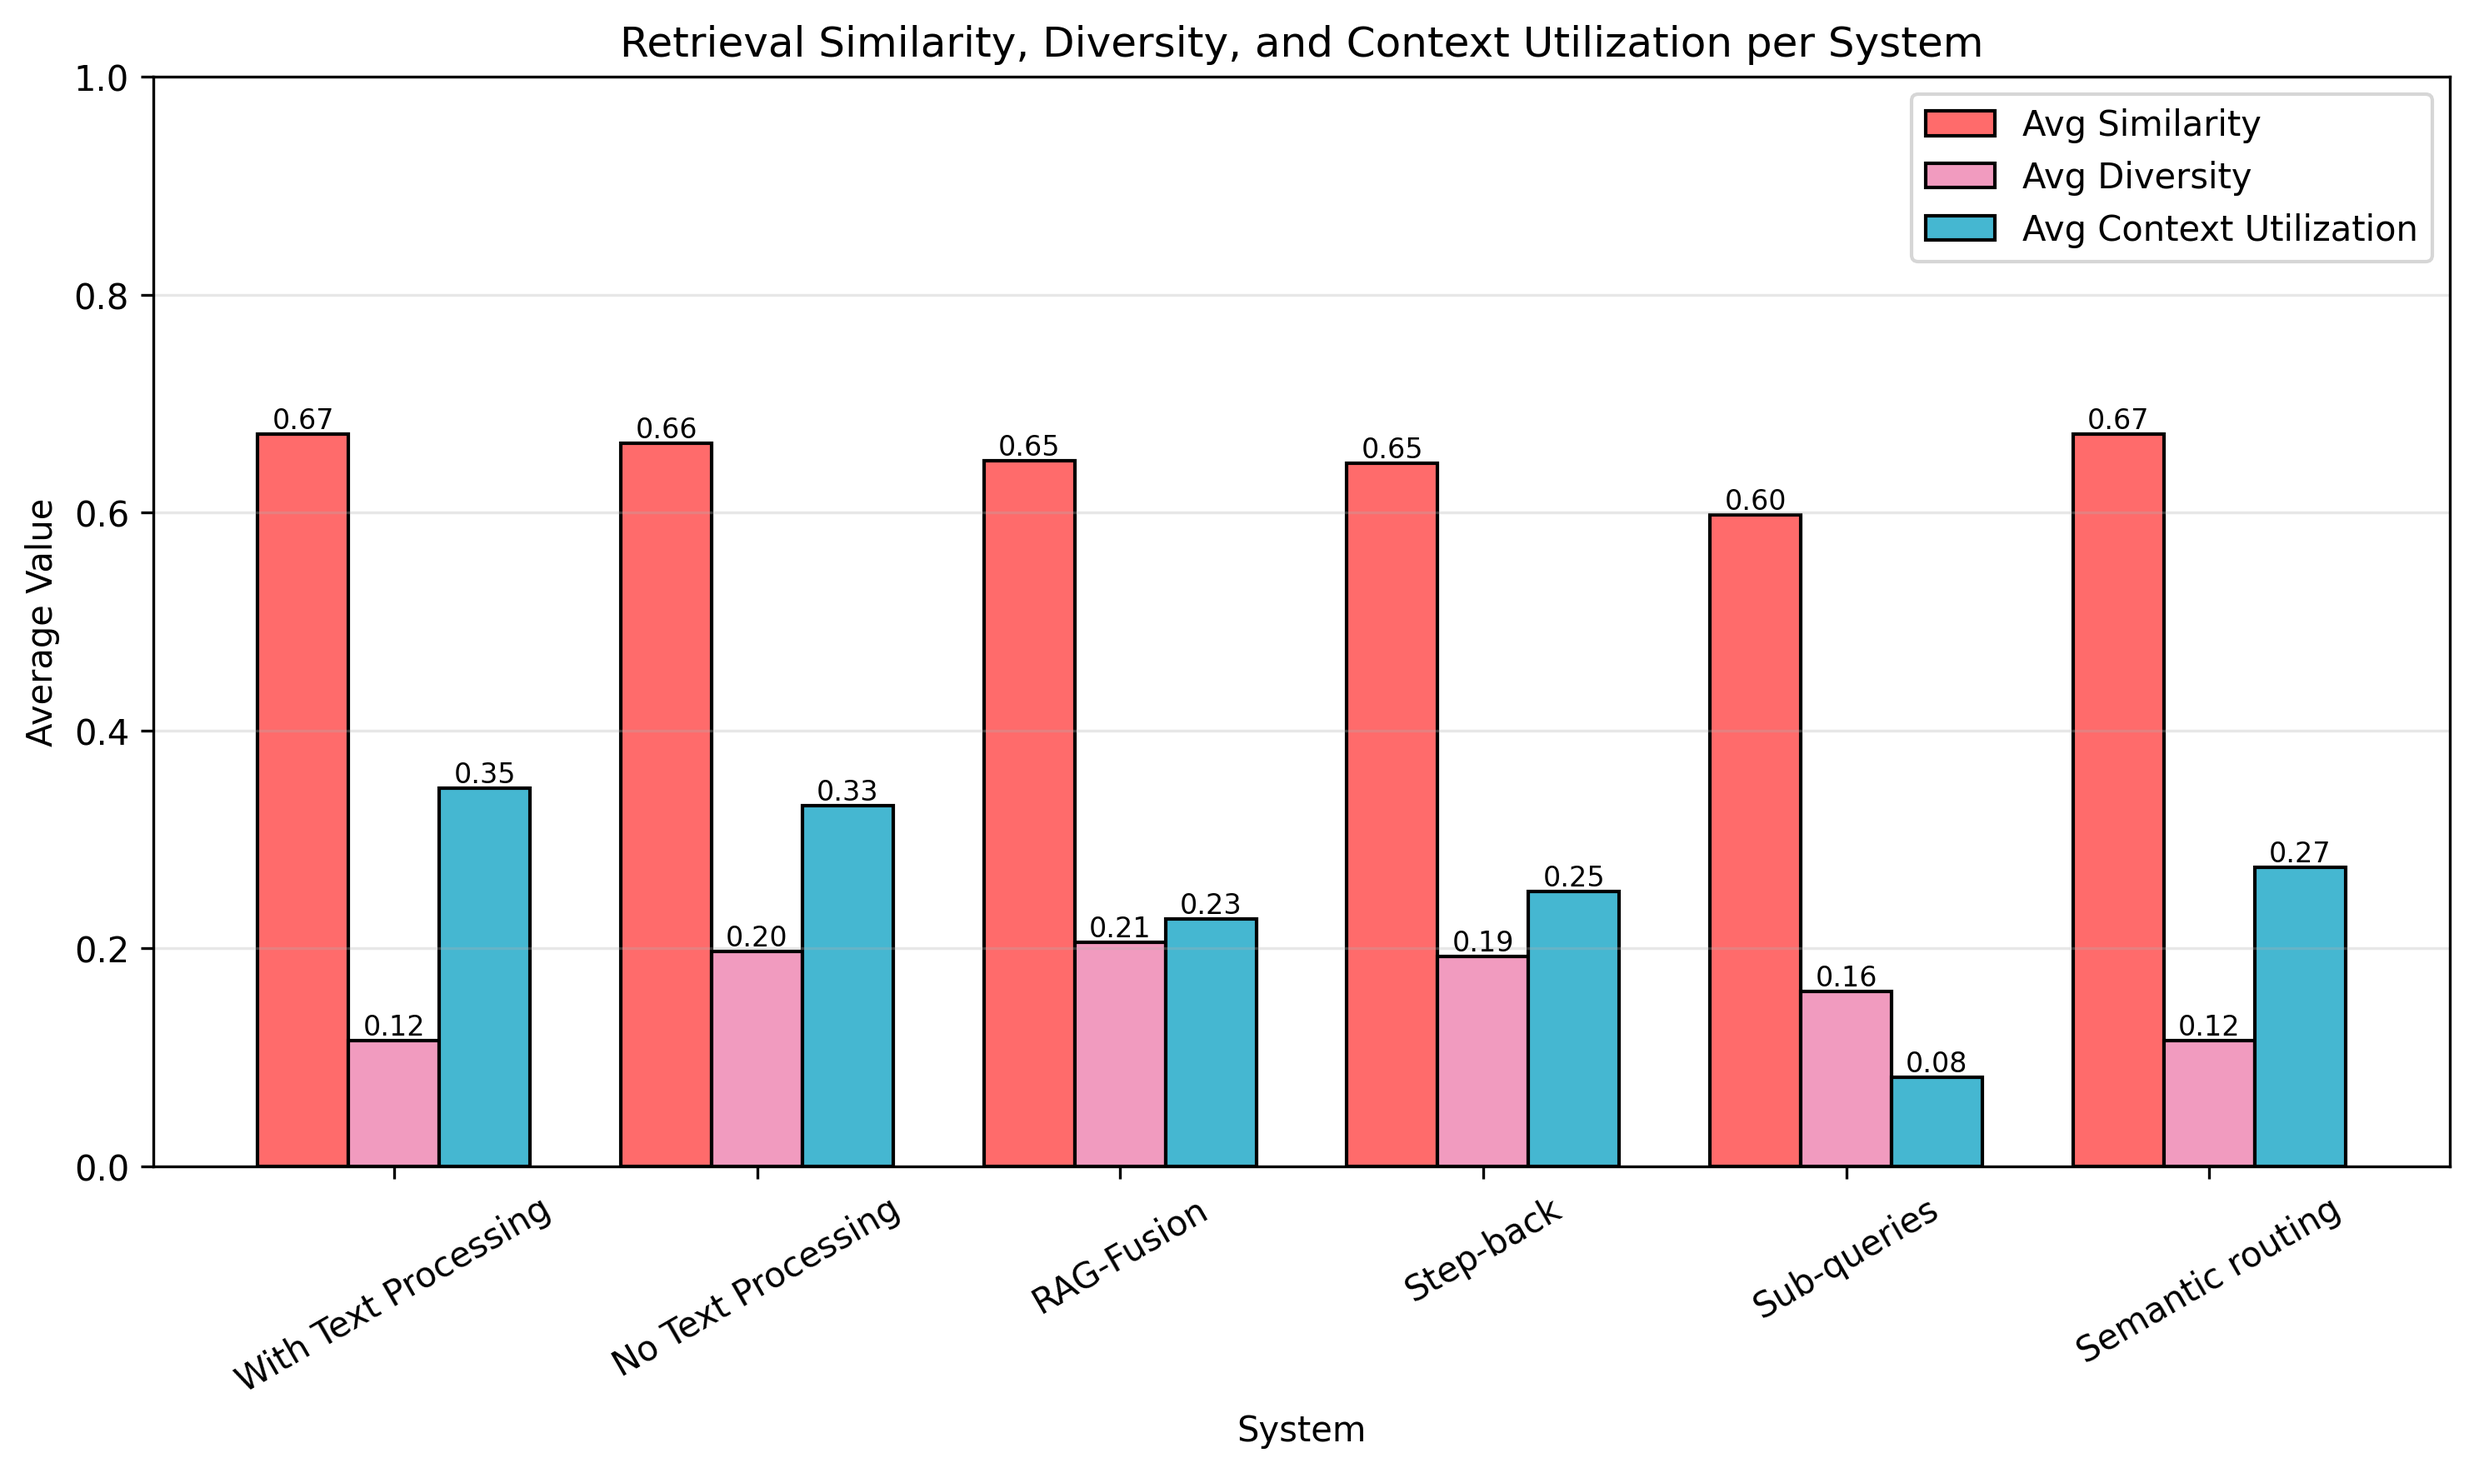
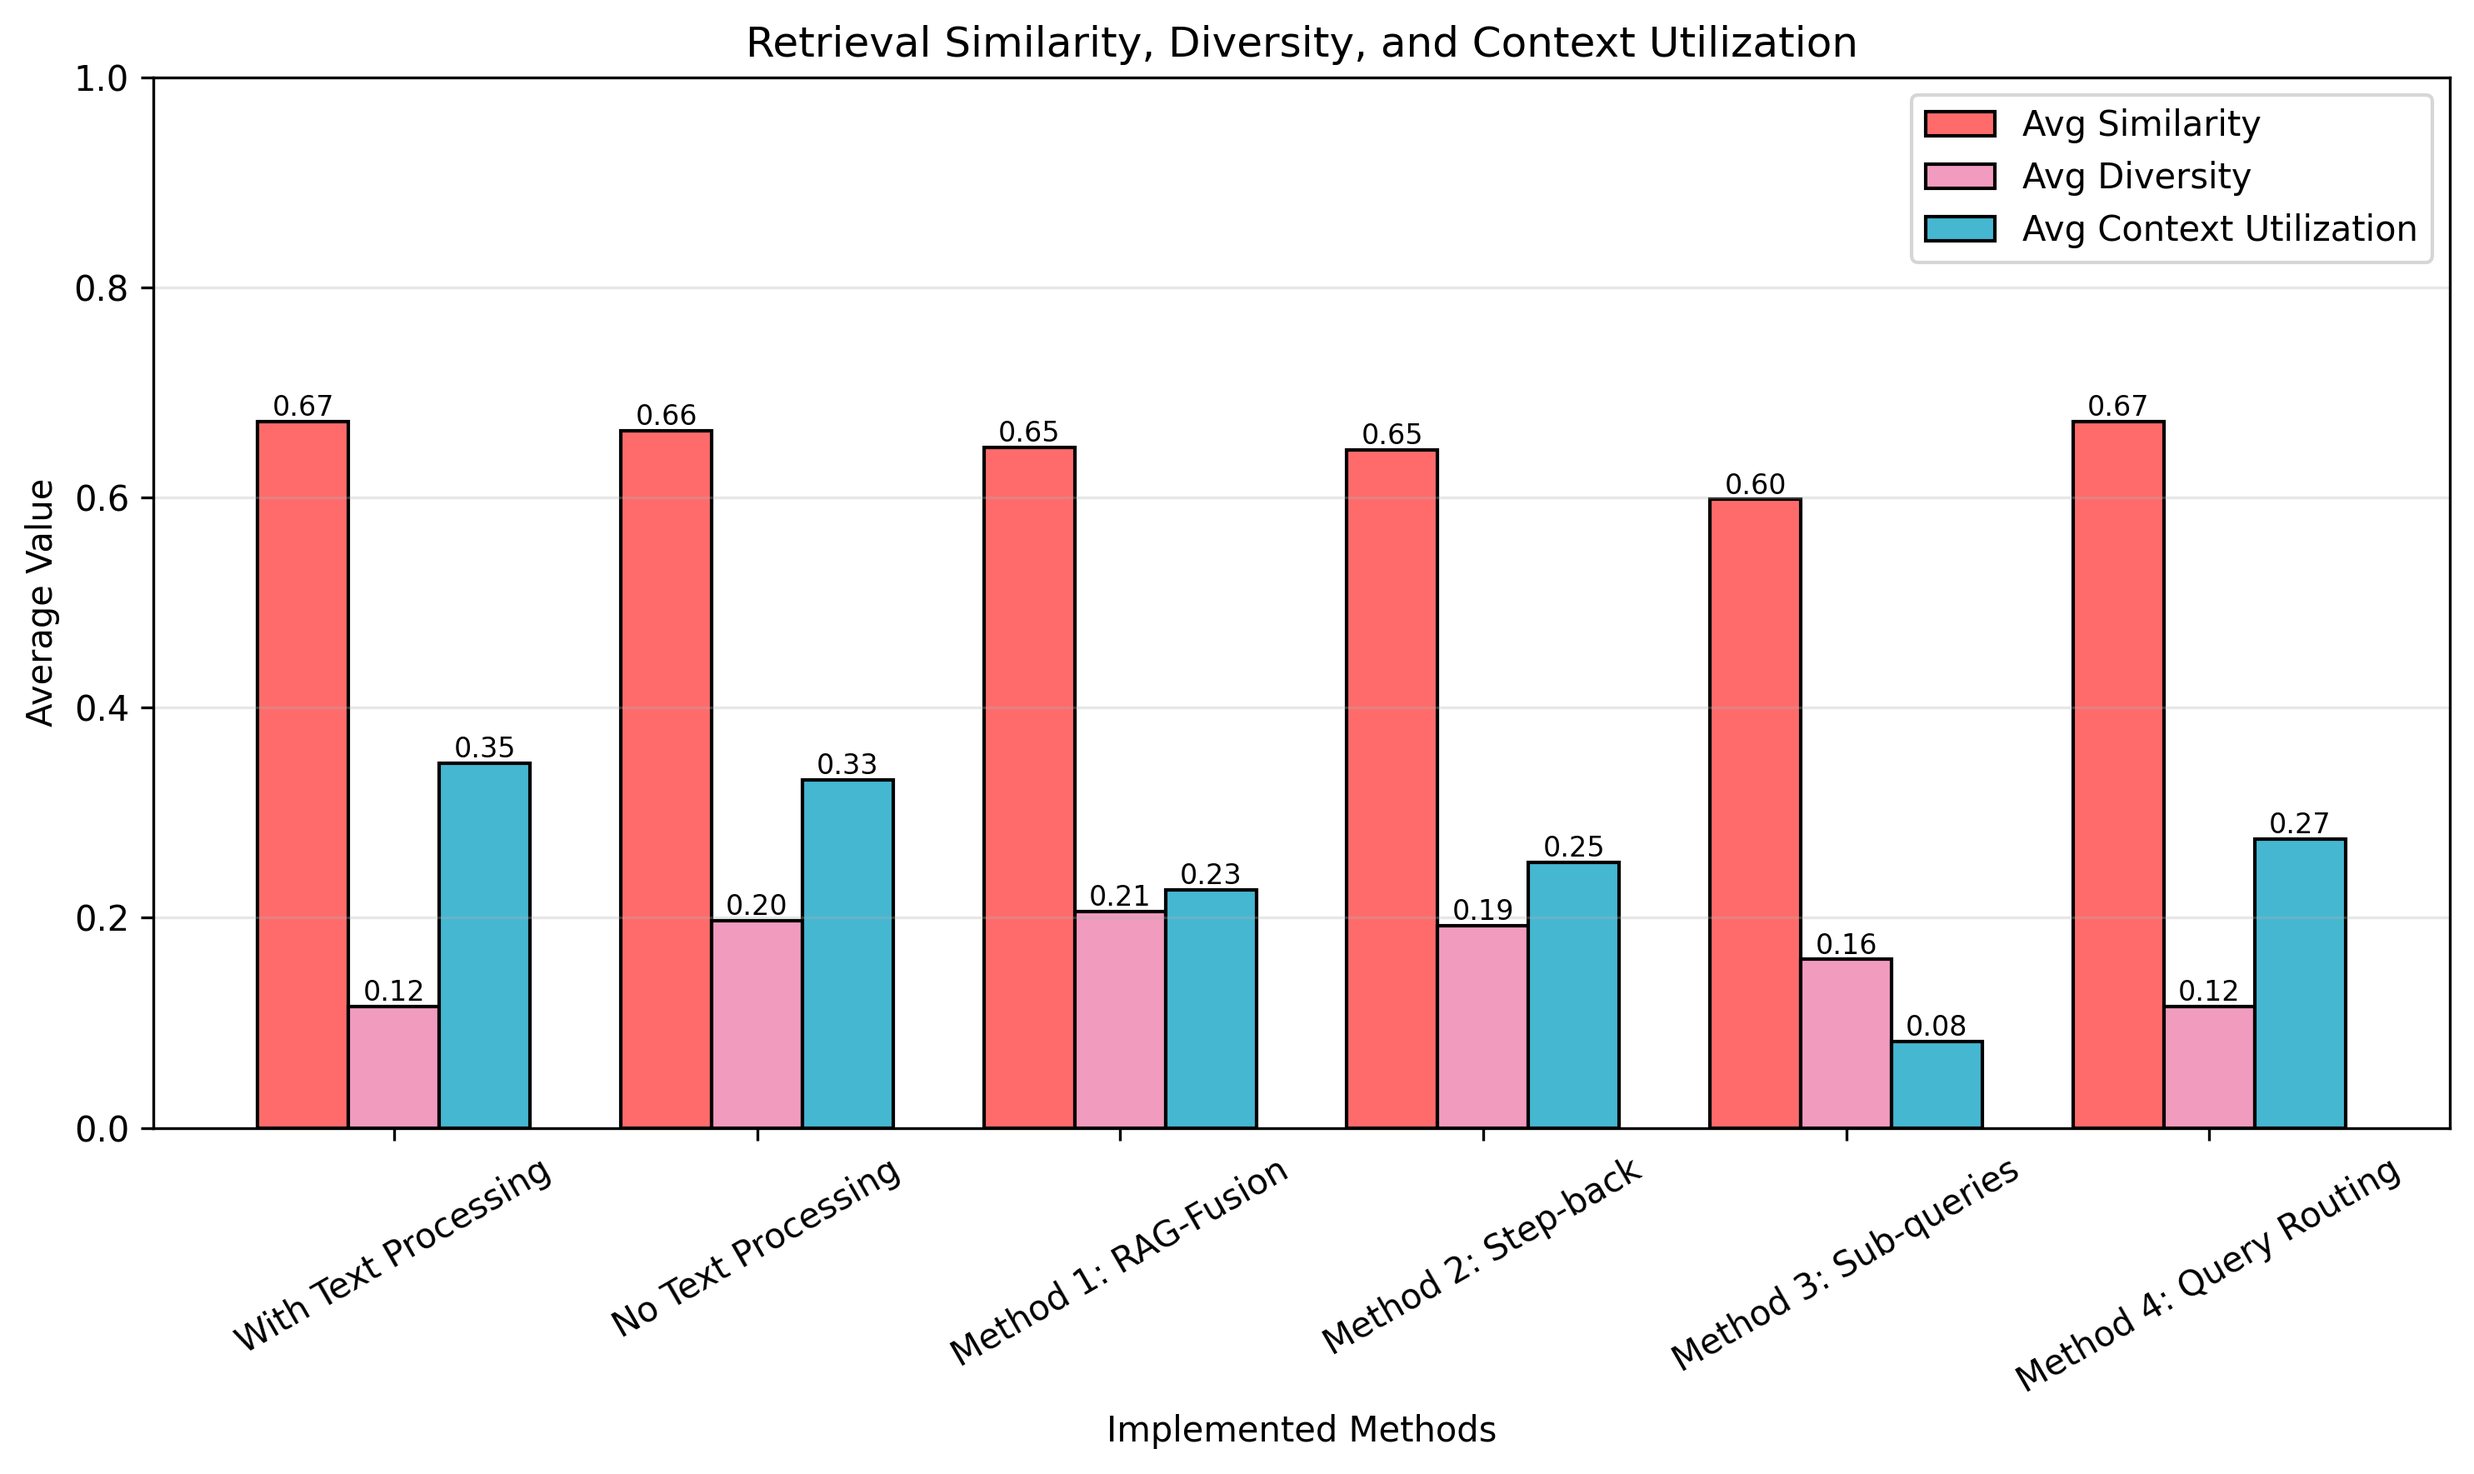
2026-1-7 (1) (Scheduled)

diff --git a/Additional_Evaluation/eval.py b/Additional_Evaluation/eval.py
@@ -80,8 +80,8 @@ for bar in rects3:
 
 # Add labels, title, legend
 ax.set_ylabel('Average Value')
-ax.set_xlabel('System')
-ax.set_title('Retrieval Similarity, Diversity, and Context Utilization per System')
+ax.set_xlabel('Implemented Methods')
+ax.set_title('Retrieval Similarity, Diversity, and Context Utilization')
 ax.set_xticks(x)
 ax.set_xticklabels(systems, rotation=30)
 ax.set_ylim(0,1)
@@ -92,14 +92,14 @@ plt.savefig('avg_retrieval_quality.png', dpi=300, bbox_inches='tight')
 plt.show()
 
 # Plot average query time per system
-plt.figure(figsize=(8,5))
+plt.figure(figsize=(10,6))
 bars2 = plt.bar(grouped['System'], grouped['Query time (s)'], color="#A7F579", edgecolor='black')
 for bar in bars2:
     height = bar.get_height()
     plt.text(bar.get_x() + bar.get_width()/2., height, f'{height:.2f}', ha='center', va='bottom', fontsize=12, rotation=0)
-plt.ylabel('Average Query Time (s)')
-plt.xlabel('System')
-plt.title('Average Query Time per System')
+plt.ylabel('Average Query Time (seconds)')
+plt.xlabel('Implemented Methods')
+plt.title('Average Query Time')
 plt.xticks(rotation=30)
 plt.ylim(0,300)
 plt.grid(axis='y', alpha=0.3)
@@ -107,16 +107,33 @@ plt.tight_layout()
 plt.savefig('avg_query_time.png', dpi=300, bbox_inches='tight')
 plt.show()
 
-# Plot average hallucination uncertainty count per system
-plt.figure(figsize=(8,5))
-bars3 = plt.bar(grouped['System'], grouped['hallucination_uncertainty_count'], color='#FFA07A', edgecolor='black')
+# Plot average word count per system
+plt.figure(figsize=(10,6))
+bars3 = plt.bar(grouped['System'], grouped['length_word_count'], color="#7AD9FF", edgecolor='black')
 for bar in bars3:
     height = bar.get_height()
     plt.text(bar.get_x() + bar.get_width()/2., height, f'{height:.2f}', ha='center', va='bottom', fontsize=12, rotation=0)
-plt.ylabel('Average Uncertainty Word Count')
-plt.xlabel('System')
-plt.title('Average Hallucination (Uncertainty Words) per System')
+plt.ylabel('Average Number of Words')
+plt.xlabel('Implemented Methods')
+plt.title('Average Word Count')
 plt.xticks(rotation=30)
+plt.ylim(0,1000)
+plt.grid(axis='y', alpha=0.3)
+plt.tight_layout()
+plt.savefig('avg_word_count.png', dpi=300, bbox_inches='tight')
+plt.show()
+
+# Plot average hallucination uncertainty  count per system
+plt.figure(figsize=(10,6))
+bars4 = plt.bar(grouped['System'], grouped['hallucination_uncertainty_count'], color='#FFA07A', edgecolor='black')
+for bar in bars4:
+    height = bar.get_height()
+    plt.text(bar.get_x() + bar.get_width()/2., height, f'{height:.2f}', ha='center', va='bottom', fontsize=12, rotation=0)
+plt.ylabel('Average Number of Uncertainty Words')
+plt.xlabel('Implemented Methods')
+plt.title('Average Hallucination Count (Uncertainty Words)')
+plt.xticks(rotation=30)
+plt.ylim(0,10)
 plt.grid(axis='y', alpha=0.3)
 plt.tight_layout()
 plt.savefig('avg_hallucination_count.png', dpi=300, bbox_inches='tight')
